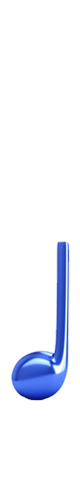
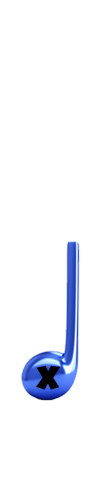
game almost complete

Changed region(s): [[0.125, 0.48, 0.875, 0.81]]

diff --git a/scripts/index.js b/scripts/index.js
@@ -1,11 +1,17 @@
-let interval = window.setInterval(incSongNote, 1000);
 const canvas = document.getElementById('canvas');
 const context = canvas.getContext('2d');
 const keys = document.querySelectorAll('.key');
-let showedNote = 0;
+const BPM = 130;
+const gameLevel = 2.5;
+const BPMTime = Math.floor (gameLevel * 1000 * 60 * (1 / BPM));
+const interval = window.setInterval(incSongNote, BPMTime);
 const backgroundImg = new Image();
-backgroundImg.src = '/images/staff.jpg'
+backgroundImg.src = 'images/staff.jpg'
+
+let showedNote = 0;
 let notePosition = 1000;
+let checkedNote;
+let score = 0;
 
 function playNote(note) {
     let keySound;
@@ -34,113 +40,107 @@ const timer = 500;
 document.addEventListener('keydown', event => {
 switch(event.code) {
     case 'KeyZ':
-        playNote('C2');
-        keyChange('C2');
-        setTimeout(() => { keyReturn('C2'); }, timer);
+        playKeyboard('C2');
         break;
     case 'KeyS':
-        playNote('Db2');
-        keyChange('Db2');
-        setTimeout(() => { keyReturn('Db2'); }, timer);
+        playKeyboard('Db2');
         break;
     case 'KeyX':
-        playNote('D2');
-        keyChange('D2');
-        setTimeout(() => { keyReturn('D2'); }, timer);
+        playKeyboard('D2');
         break;
     case 'KeyD':
-        playNote('Eb2');
-        keyChange('Eb2');
-        setTimeout(() => { keyReturn('Eb2'); }, timer);
+        playKeyboard('Eb2');
         break;
     case 'KeyC':
-        playNote('E2');
-        keyChange('E2');
-        setTimeout(() => { keyReturn('E2'); }, timer);
+        playKeyboard('E2');
         break;    
     case 'KeyV':
-        playNote('F2');
-        keyChange('F2');
-        setTimeout(() => { keyReturn('F2'); }, timer);
+        playKeyboard('F2');
         break;
     case 'KeyG':
-        playNote('Gb2');
-        keyChange('Gb2');
-        setTimeout(() => { keyReturn('Gb2'); }, timer);
+        playKeyboard('Gb2');
         break;
     case 'KeyB':
-        playNote('G2');
-        keyChange('G2');
-        setTimeout(() => { keyReturn('G2'); }, timer);
+        playKeyboard('G2');
         break;
     case 'KeyH':
-        playNote('Ab2');
-        keyChange('Ab2');
-        setTimeout(() => { keyReturn('Ab2'); }, timer);
+        playKeyboard('Ab2');
         break;
     case 'KeyN':
-        playNote('A2');
-        keyChange('A2');
-        setTimeout(() => { keyReturn('A2'); }, timer);
+        playKeyboard('A2');
         break;
     case 'KeyJ':
-        playNote('Bb2');
-        keyChange('Bb2');
-        setTimeout(() => { keyReturn('Bb2'); }, timer);
+        playKeyboard('Bb2');
         break;
     case 'KeyM':
-        playNote('B2');
-        keyChange('B2');
-        setTimeout(() => { keyReturn('B2'); }, timer);
+        playKeyboard('B2');
         break;
     case 'Comma':
-        playNote('C3');
-        keyChange('C3');
-        setTimeout(() => { keyReturn('C3'); }, timer);
+        playKeyboard('C3');
         break;
     case 'KeyL':
-        playNote('Db3');
-        keyChange('Db3');
-        setTimeout(() => { keyReturn('Db3'); }, timer);
+        playKeyboard('Db3');
         break;
     case 'Period':
-        playNote('D3');
-        keyChange('D3');
-        setTimeout(() => { keyReturn('D3'); }, timer);
+        playKeyboard('D3');
         break;
     case 'Semicolon':
-        playNote('Eb3');
-        keyChange('Eb3');
-        setTimeout(() => { keyReturn('Eb3'); }, timer);
+        playKeyboard('Eb3');
         break;
     case 'Slash':
-        playNote('E3');
-        keyChange('E3');
-        setTimeout(() => { keyReturn('E3'); }, timer);
+        playKeyboard('E3');
         break;
 }
 })
 
-//draw notes
-const noteImgs = ['C2.png', 'Db2.png', 'D2.png', 'Eb2.png', 'E2.png', 'F2.png', 'Gb2.png', 'G2.png', 'Ab2.png', 'A2.png', 'Bb2.png', 'B2.png', 'C3.png', 'Db3.png', 'D3b.png', 'Eb3.png', 'E3.png'];
+function playKeyboard (keyNote) {
+    playNote(keyNote);
+    keyChange(keyNote);
+    setTimeout(() => { keyReturn(keyNote); }, timer);
+    if (checkedNote === keyNote) {
+        score++;
+        console.log(`---> score ${score}`);
+    }
+}
 
-const songNotes = ['/images/E3.png', '/images/C3.png', '/images/D3.png', '/images/E3.png', '/images/E3.png', '/images/D3.png', '/images/C3.png', '/images/A2.png', '/images/C3.png', '/images/D3.png', '/images/C3.png', '/images/A2.png', '/images/G2.png', '/images/E3.png', '/images/C3.png', '/images/D3.png', '/images/E3.png', '/images/E3.png', '/images/D3.png', '/images/C3.png', '/images/A2.png', '/images/B2.png', '/images/E3.png', '/images/D3.png', '/images/E3.png', '/images/C3.png', '/images/E3.png', '/images/C3.png', '/images/D3.png', '/images/E3.png', '/images/E3.png', '/images/D3.png', '/images/E3.png', '/images/C3.png', '/images/C3.png', '/images/D3.png', '/images/C3.png', '/images/E3.png', '/images/D3.png', '/images/C3.png',];
+// //draw notes
+// const noteImgs = ['C2', 'Db2', 'D2', 'Eb2', 'E2', 'F2', 'Gb2', 'G2', 'Ab2', 'A2', 'Bb2', 'B2', 'C3', 'Db3', 'D3b', 'Eb3', 'E3'];
+
+const songNotes = ['E3', 'C3', 'D3', 'E3', 'E3', 'D3', 'C3', 'A2', 'C3', 'D3', 'C3', 'A2', 'G2', 'E3', 'C3', 'D3', 'E3', 'E3', 'D3', 'C3', 'A2', 'E3', 'D3', 'C3', 'B2', 'E3', 'D3', 'E3', 'C3', 'E3', 'C3', 'D3', 'E3', 'E3', 'D3', 'E3', 'C3', 'C3', 'D3', 'C3', 'E3', 'D3', 'C3'];
 
 renderCanvas();
 
 function incSongNote() {
-    if (showedNote === 3) clearInterval(interval);
-    showedNote++;
-    notePosition -= 150;
-    console.log(`isn --> ${songNotes[showedNote]}`)
+    notePosition -= 100;
 }
 
 function renderCanvas()
 {
-//    context.drawImage(backgroundImg, 0, 0, 1000, 500); // clear any previous drawing
-    drawing = new Image();
-    drawing.src = songNotes[showedNote];
-    context.drawImage(drawing, notePosition, 0);
+    context.drawImage(backgroundImg, 0, 0, 1000, 500);
+    context.fillStyle='yellow';
+    context.fillRect(400, 0, 100, 500);
+    
+    let noteDrawings = [];
+    
+    startingNotePosition = notePosition;
 
-    requestAnimationFrame(renderCanvas); // call renderCanvas again as soon as possible
+    for(let i = 0; i < songNotes.length; i++) {
+        tempDrawing = new Image();
+        tempDrawing.src = 'images/' + songNotes[i] + '.png';
+        noteDrawings.push(tempDrawing);
+    }
+
+        noteDrawings.forEach(n => {
+        if (startingNotePosition > 100) 
+            context.drawImage(n, startingNotePosition, 0);
+    
+
+        if (startingNotePosition > 375 && startingNotePosition < 500) {
+        checkedNote = n.src.substr(n.src.length-6, 2);
+        console.log(`--->${checkedNote}`);
+        }
+        startingNotePosition += 100;
+    });
+
+    requestAnimationFrame(renderCanvas);
 }
